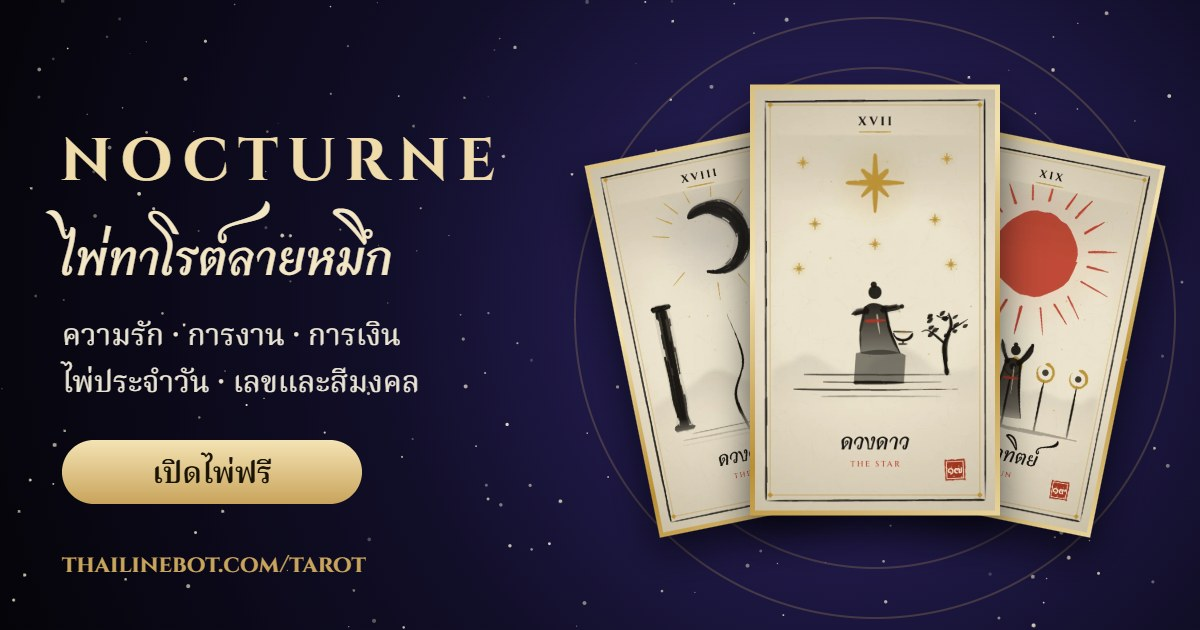
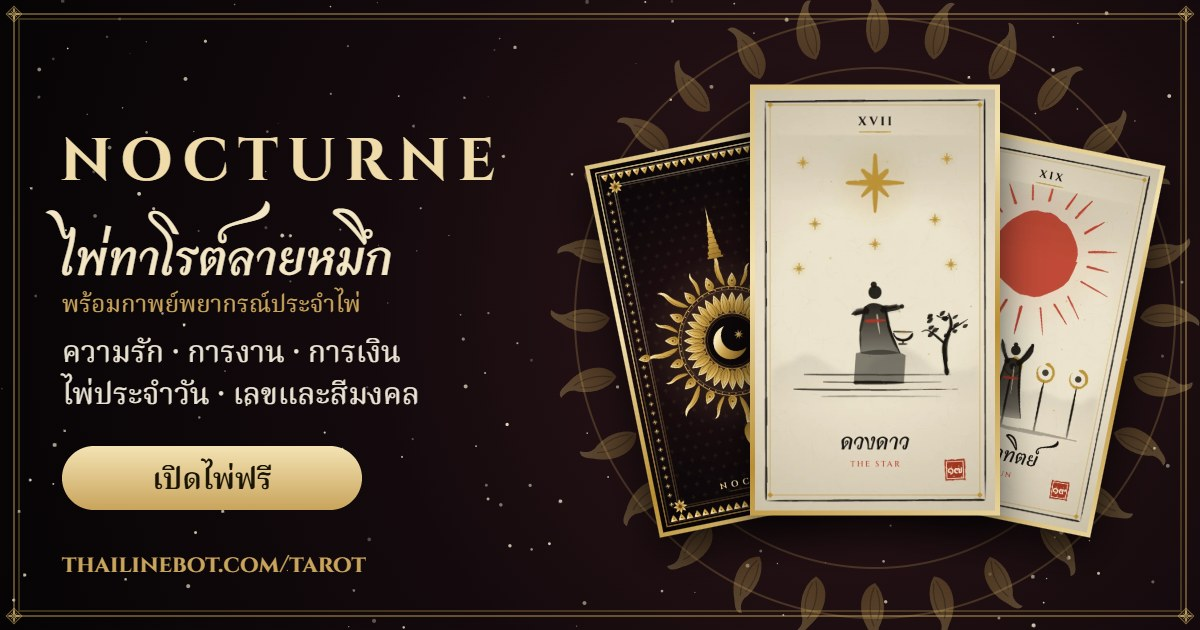
feat(tarot): Siamese theme - lacquer/gold background, Thai ring, new card back, kap yani 11 verse per card as the message, themed share + OG images

diff --git a/tarot/index.html b/tarot/index.html
@@ -1,7 +1,7 @@
 <meta charset="utf-8">
 <meta name="viewport" content="width=device-width, initial-scale=1, viewport-fit=cover">
 <title>Nocturne Tarot</title>
-<meta name="theme-color" content="#07060d">
+<meta name="theme-color" content="#070405">
 <meta name="apple-mobile-web-app-capable" content="yes">
 <meta name="mobile-web-app-capable" content="yes">
 <meta name="apple-mobile-web-app-title" content="Nocturne">
@@ -24,7 +24,7 @@
 <style>
 :root{
   color-scheme:dark;
-  --ink:#07060d; --indigo:#15122b; --indigo2:#1f1a3d;
+  --ink:#070405; --indigo:#1e1216; --indigo2:#2a1a1f;
   --gold:#c9a45c; --gold-hi:#efdcaa; --gold-lo:#7d6536;
   --mist:#a49dba; --text:#e9e3d3; --line:rgba(201,164,92,.28); --rev:#f0b3a8;
   --display:"Cinzel","Trajan Pro",Georgia,serif;
@@ -35,7 +35,7 @@
 [hidden]{display:none!important}
 html,body{height:100%}
 body{margin:0;background:var(--ink);color:var(--text);font-family:var(--body);font-size:15px;line-height:1.6;overflow-x:hidden}
-#sky{position:fixed;inset:0;width:100%;height:100%;z-index:0;pointer-events:none}
+#bgthai,#sky{position:fixed;inset:0;width:100%;height:100%;z-index:0;pointer-events:none}
 .app{position:relative;z-index:1;min-height:100%;display:grid;grid-template-rows:auto 1fr auto;padding-inline:16px;box-sizing:border-box}
 header{display:grid;grid-template-columns:1fr auto 1fr;align-items:center;padding-block:14px 4px;gap:12px}
 .brand{font-family:var(--display);letter-spacing:.32em;font-size:15px;color:var(--gold-hi)}
@@ -53,8 +53,8 @@ button:focus-visible,.card:focus-visible,textarea:focus-visible,.hitem:focus-vis
 
 .stage{position:relative;min-height:max(300px,52vh);overflow:hidden}
 .astro{position:absolute;left:50%;top:50%;width:min(96vmin,760px);aspect-ratio:1;transform:translate(-50%,-50%);pointer-events:none;opacity:.9}
-.astro .spin{transform-origin:50% 50%;animation:spin 240s linear infinite}
-.astro .spin2{transform-origin:50% 50%;animation:spin 400s linear infinite reverse}
+.astro{animation:rot 300s linear infinite}@keyframes rot{to{rotate:360deg}}
+.verse{margin:12px 0 4px;text-align:center}.vlab{font-size:12px;color:var(--gold);letter-spacing:.08em}.vl{font-family:var(--thai-d);font-size:19px;color:#f3e6c4;line-height:1.65;text-wrap:balance}.vrev{font-size:12px;color:var(--rev);margin-top:2px}
 @keyframes spin{to{transform:rotate(360deg)}}
 
 .card{position:absolute;left:0;top:0;transition:transform .8s var(--ease),width .8s var(--ease),height .8s var(--ease),opacity .5s;cursor:pointer;will-change:transform;-webkit-tap-highlight-color:transparent}
@@ -87,10 +87,10 @@ button:focus-visible,.card:focus-visible,textarea:focus-visible,.hitem:focus-vis
 .hint small{display:block;color:var(--mist);font-size:12px}
 .form{display:grid;gap:10px;width:min(600px,100%)}
 .row{display:flex;flex-wrap:wrap;gap:8px;justify-content:center}
-.chip{border:1px solid var(--line);background:rgba(21,18,43,.7);color:var(--text);border-radius:999px;padding:6px 14px;font:14px var(--body);cursor:pointer}
+.chip{border:1px solid var(--line);background:rgba(30,18,22,.72);color:var(--text);border-radius:999px;padding:6px 14px;font:14px var(--body);cursor:pointer}
 .chip[aria-pressed="true"]{border-color:var(--gold);color:#1a1405;background:linear-gradient(180deg,var(--gold-hi),var(--gold))}
 .lbl{font-size:11px;letter-spacing:.18em;color:var(--mist);font-family:var(--display);align-self:center}
-textarea{width:100%;box-sizing:border-box;resize:none;background:rgba(21,18,43,.75);border:1px solid var(--line);border-radius:10px;color:var(--text);font:15px var(--body);padding:10px 12px;height:48px}
+textarea{width:100%;box-sizing:border-box;resize:none;background:rgba(30,18,22,.75);border:1px solid var(--line);border-radius:10px;color:var(--text);font:15px var(--body);padding:10px 12px;height:48px}
 textarea::placeholder{color:#6f6888}
 .cta{font-family:var(--display);letter-spacing:.2em;font-size:14px;color:#1a1405;background:linear-gradient(180deg,#f4e3b4,#c9a45c);border:0;border-radius:999px;padding:12px 30px;cursor:pointer;box-shadow:0 0 24px rgba(201,164,92,.35)}
 .cta:hover{filter:brightness(1.08)}
@@ -99,7 +99,7 @@ textarea::placeholder{color:#6f6888}
 .note{font-size:11px;color:#6f6888}
 .daily{font-size:13px;color:var(--gold-hi)}
 
-.sheet{position:fixed;top:0;right:0;bottom:0;width:min(440px,100%);z-index:20;background:linear-gradient(180deg,rgba(21,18,43,.97),rgba(9,8,20,.98));border-left:1px solid var(--line);transform:translateX(105%);transition:transform .6s var(--ease);display:grid;grid-template-rows:auto 1fr auto;padding-top:env(safe-area-inset-top,0px);padding-bottom:env(safe-area-inset-bottom,0px)}
+.sheet{position:fixed;top:0;right:0;bottom:0;width:min(440px,100%);z-index:20;background:linear-gradient(180deg,rgba(34,20,24,.97),rgba(10,6,8,.98));border-left:1px solid var(--line);transform:translateX(105%);transition:transform .6s var(--ease);display:grid;grid-template-rows:auto 1fr auto;padding-top:env(safe-area-inset-top,0px);padding-bottom:env(safe-area-inset-bottom,0px)}
 .sheet.open{transform:none}
 .sheet-h{display:flex;justify-content:space-between;align-items:center;padding:16px 20px 8px;border-bottom:1px solid var(--line)}
 .sheet-h h2{margin:0;font-family:var(--display);font-weight:500;letter-spacing:.24em;font-size:15px;color:var(--gold-hi)}
@@ -168,6 +168,7 @@ textarea::placeholder{color:#6f6888}
 }
 </style>
 
+<canvas id="bgthai" aria-hidden="true"></canvas>
 <canvas id="sky" aria-hidden="true"></canvas>
 <div class="app">
   <header>
@@ -184,7 +185,7 @@ textarea::placeholder{color:#6f6888}
   </header>
 
   <main class="stage mode-intro" id="stage" aria-live="polite">
-    <svg class="astro" viewBox="0 0 400 400" aria-hidden="true" id="astro"></svg>
+    <canvas class="astro" id="astro" width="900" height="900" aria-hidden="true"></canvas>
   </main>
 
   <section class="dock" id="dock">
@@ -300,6 +301,7 @@ addEventListener("unhandledrejection",function(e){__showErr("promise: "+(e.reaso
 </script>
 <script src="cards.js" charset="utf-8"></script>
 <script src="ink/deck.js" charset="utf-8"></script>
+<script src="ink/thai.js" charset="utf-8"></script>
 <script>
 const ROMAN=["0","I","II","III","IV","V","VI","VII","VIII","IX","X","XI","XII","XIII","XIV","XV","XVI","XVII","XVIII","XIX","XX","XXI"];
 const TOPIC={all:"ภาพรวม",love:"ความรัก",work:"การงาน",money:"การเงิน"};
@@ -381,16 +383,27 @@ const LUNAR=(function(){const SYN=29.530588,age=(((Date.now()-Date.UTC(2000,0,6,
  $("#moons").innerHTML=h;const half=SYN/2;const d=age<half?Math.min(15,Math.floor(age)+1):Math.min(15,Math.floor(age-half)+1);
  const txt=`${age<half?"ข้างขึ้น":"ข้างแรม"} ${d} ค่ำ`;$("#lunar").innerHTML=`คืนนี้ราว <b>${txt}</b>`;return {txt,f}})();
 
-/* ---------- astrolabe ---------- */
-(function(){let t="";for(let i=0;i<120;i++){const a=i*3*Math.PI/180,r1=i%10?186:178;t+=`M${200+Math.cos(a)*r1} ${200+Math.sin(a)*r1}L${200+Math.cos(a)*192} ${200+Math.sin(a)*192}`}
- let p="";for(let i=0;i<12;i++){const a=(i*30+15)*Math.PI/180;p+=`<circle cx="${200+Math.cos(a)*160}" cy="${200+Math.sin(a)*160}" r="2" fill="#c9a45c"/>`}
- $("#astro").innerHTML=`<g fill="none" stroke="#c9a45c"><g class="spin" stroke-opacity=".32"><circle cx="200" cy="200" r="192"/><circle cx="200" cy="200" r="170" stroke-opacity=".6"/><path d="${t}" stroke-width=".8"/>${p}</g><g class="spin2" stroke-opacity=".22"><circle cx="200" cy="200" r="130"/><path d="${star(200,200,130,6,.577)}"/><circle cx="200" cy="200" r="74"/></g><path d="M200 0 V40 M200 360 V400 M0 200 H40 M360 200 H400" stroke-opacity=".3"/></g>`})();
+/* ---------- Thai ring behind the table: halo, กนกเปลว ring, ประจำยาม circle (slowly rotating via CSS) ---------- */
+(function(){const c=$("#astro"),g=c.getContext("2d"),T=ThaiArt,R=250;g.translate(450,450);
+ const gl=g.createRadialGradient(0,0,20,0,0,R*1.6);gl.addColorStop(0,"rgba(243,220,154,.12)");gl.addColorStop(1,"rgba(243,220,154,0)");g.fillStyle=gl;g.beginPath();g.arc(0,0,R*1.6,0,7);g.fill();
+ g.globalAlpha=.3;T.flameRing(g,0,0,R*1.12,32,R*.28);g.globalAlpha=1;
+ g.strokeStyle="rgba(215,178,94,.34)";g.lineWidth=1.4;[R,R*1.46,R*1.55].forEach(r=>{g.beginPath();g.arc(0,0,r,0,7);g.stroke()});
+ for(let i=0;i<20;i++){const a=i/20*Math.PI*2;T.prachayam(g,Math.cos(a)*R*1.505,Math.sin(a)*R*1.505,9,.6,false)}})();
 
-/* ---------- starfield ---------- */
+/* ---------- ลายรดน้ำ background (static, repainted on resize) + gold twinkle overlay ---------- */
+function paintBg(){const cv=$("#bgthai"),d=Math.min(devicePixelRatio||1,2),W=innerWidth,H=innerHeight;cv.width=W*d;cv.height=H*d;const g=cv.getContext("2d");g.scale(d,d);const T=ThaiArt,u=Math.min(W,H)/390;
+ T.lacquer(g,W,H,W/2,H*.4,3);
+ const r=T.mulberry(9);for(let i=0;i<W*H/6000;i++){g.globalAlpha=.1+r()*.4;g.fillStyle=r()<.3?"#f3dc9a":"#f4ead0";g.beginPath();g.arc(r()*W,r()*H*.8,r()*1.1+.3,0,7);g.fill()}g.globalAlpha=1;
+ const s=Math.min(W,H)*.2;T.scroll(g,s*.55,s*.55,s*.5,1.5,1,.3,.45,1);T.scroll(g,W-s*.55,s*.55,s*.5,1.5,-1,-.3,.45,2);
+ T.frame(g,W,H,8*u,6*u,.5);
+ const th=Math.min(H*.2,W*.5),hy=H-Math.max(10,H*.02);
+ const hg=g.createLinearGradient(0,hy-th*1.2,0,hy);hg.addColorStop(0,"rgba(90,60,40,0)");hg.addColorStop(1,"rgba(120,80,45,.3)");g.fillStyle=hg;g.fillRect(0,hy-th*1.2,W,th*1.2);
+ g.globalAlpha=.72;T.chedi(g,W*.16,hy,th*.8);T.chedi(g,W*.84,hy,th*.7);T.ubosot(g,W/2,hy,th*1.05);g.globalAlpha=1;
+ g.fillStyle="#050405";g.fillRect(0,hy,W,H-hy)}
 (function(){const cv=$("#sky"),x=cv.getContext("2d");let S=[],W,H;
- function size(){W=cv.width=innerWidth*devicePixelRatio;H=cv.height=innerHeight*devicePixelRatio;S=Array.from({length:170},()=>({x:Math.random()*W,y:Math.random()*H,r:(Math.random()*1.2+.2)*devicePixelRatio,p:Math.random()*6.28,s:.4+Math.random()*1.4}))}
- function draw(t){const g=x.createRadialGradient(W/2,H*.45,0,W/2,H*.45,Math.max(W,H)*.7);g.addColorStop(0,"#171333");g.addColorStop(.55,"#0b0918");g.addColorStop(1,"#050409");x.fillStyle=g;x.fillRect(0,0,W,H);
-  for(const s of S){x.globalAlpha=.35+.65*Math.abs(Math.sin(s.p+t/1000*s.s*.6));x.fillStyle="#f4ead0";x.beginPath();x.arc(s.x,s.y,s.r,0,6.3);x.fill()}x.globalAlpha=1;if(!reduce)requestAnimationFrame(draw)}
+ function size(){const d=Math.min(devicePixelRatio||1,2);W=innerWidth;H=innerHeight;cv.width=W*d;cv.height=H*d;x.setTransform(d,0,0,d,0,0);
+  S=Array.from({length:60},()=>({x:Math.random()*W,y:Math.random()*H*.75,r:Math.random()*1.3+.4,p:Math.random()*6.28,s:.4+Math.random()*1.2}));try{paintBg()}catch(e){}}
+ function draw(t){x.clearRect(0,0,W,H);for(const s of S){x.globalAlpha=Math.max(0,Math.sin(s.p+t/1000*s.s*.7))*.9;x.fillStyle="#f3dc9a";x.beginPath();x.arc(s.x,s.y,s.r,0,6.3);x.fill()}x.globalAlpha=1;if(!reduce)requestAnimationFrame(draw)}
  size();addEventListener("resize",size);requestAnimationFrame(draw)})();
 
 /* ---------- table ---------- */
@@ -403,7 +416,7 @@ for(let k=0;k<3;k++){const s=document.createElement("div");s.className="slot hid
 
 function place(el,x,y,w,r=0,z){const h=w/ASP;el.style.width=w+"px";el.style.height=h+"px";el.style.fontSize=(w*.1)+"px";el.style.transform=`translate(${x-w/2}px,${y-h/2}px) rotate(${r}deg)`;if(z!=null)el.style.zIndex=z}
 function geom(){const W=stage.clientWidth,H=stage.clientHeight;const cy=H*.93,R=Math.min(W*.46,H*.8),cw=Math.max(30,Math.min(R*.19,92));return{W,H,cy,R,cw}}
-function slotPos(k,G){const gap=G.cw*1.3;return{x:G.W/2+(k-(spread-1)/2)*gap,y:G.cy-G.R*.42,w:G.cw*1.05}}
+function slotPos(k,G){const gap=Math.max(G.cw*1.3,76);return{x:G.W/2+(k-(spread-1)/2)*gap,y:G.cy-G.R*.42,w:G.cw*1.05}}
 function revealPos(k,G){const sh=($("#sheet").classList.contains("open")||$("#hist").classList.contains("open"))&&G.W>720?Math.min(440,G.W*.45):0;const W=G.W-sh;
  const w=Math.min(W/(spread+.6)/1.12,G.H*.7*ASP,spread===1?240:210);const gap=w*1.14;return{x:W/2+(k-(spread-1)/2)*gap,y:G.H*.44,w}}
 function layout(){const G=geom(),N=cards.length;
@@ -474,15 +487,17 @@ function analyse(R){const cs=R.cards.map(([id,rv])=>({c:CARDS[id],rev:!!rv}));co
  return{cs,last,mid,msg,num,pair}}
 let readingText="";
 function dayColors(R){const out=[];if(R.bd!=null&&DAYC[R.bd])out.push([`สีวันเกิด (วัน${DAYC[R.bd][0]})`,DAYC[R.bd]]);const d=new Date(R.t).getDay();out.push([`สีประจำวัน${DAYC[d][0]}`,DAYC[d]]);return out}
+function poemHTML(R){const P=R.spread===3?POS3:POS1;return R.cards.map(([id,rv],k)=>{const c=CARDS[id],v=c.p||[];return `<div class="verse"><div class="vlab">${P[k][1]} · ${c.th}${rv?" (กลับหัว)":""}</div><div class="vl">${v[0]||""}&emsp;${v[1]||""}</div><div class="vl">${v[2]||""}&emsp;${v[3]||""}</div>${rv?`<div class="vrev">ไพ่กลับหัว: ${c.r}</div>`:""}</div>`}).join("")}
+function poemText(R){const P=R.spread===3?POS3:POS1;return R.cards.map(([id,rv],k)=>{const v=CARDS[id].p||[];return `${P[k][1]}: ${v[0]} ${v[1]}\n${v[2]} ${v[3]}`}).join("\n")}
 function renderReading(R){const A=analyse(R),P=R.spread===3?POS3:POS1;let h="",t=`🌙 NOCTURNE — ${TOPIC[R.topic]}\n`;
  h+=`<div class="meta">${thDate(R.t)} ${thTime(R.t)} · เรื่อง${TOPIC[R.topic]}${R.moon?" · "+R.moon:""}</div>`;
  if(R.q){h+=`<p class="q">“${esc(R.q)}”</p>`;t+=`คำถาม: ${R.q}\n`}
  A.cs.forEach(({c,rev},k)=>{const id=R.cards[k][0];h+=`<div class="entry">${thumb(id,rev)}<div><div class="pos">${P[k][0]} · ${P[k][1]}</div><h3>${c.th}<small>${numLabel(c)} ${c.en}${rev?" · REVERSED":""}</small></h3><div class="kw">${rev?"กลับหัว":c.k}</div>`+
   (rev?`<p class="rv">${c.r}</p><p>ถ้าปรับพลังให้ตั้งตรงได้: ${topicLine(c,R.topic)}</p>`:`<p>${topicLine(c,R.topic)}</p>`)+`</div></div>`;
   t+=`\n${P[k][1]}: ${c.th} (${c.en})${rev?" กลับหัว":""}\n${rev?c.r:topicLine(c,R.topic)}\n`});
- h+=`<div class="msg"><h4>สารจากไพ่</h4><p>${A.msg}</p><p><b>คำแนะนำ:</b> ${A.last.a}</p><div class="lucky"><div><b>${A.num}</b>เลขมงคล</div><div><b>${A.pair}</b>เลขคู่นำโชค</div><div><b><span class="sw" style="background:${A.mid.c[1]}"></span>${A.mid.c[0]}</b>สีมงคลจากไพ่</div>${dayColors(R).map(([lab,c])=>`<div><b><span class="sw" style="background:${c[2]}"></span>${c[1]}</b>${lab}</div>`).join("")}</div><p class="note" style="margin-top:8px">สีประจำวันตามคติไทยทั่วไป${R.bd==null?" · เลือกวันเกิดในหน้าแรกเพื่อดูสีวันเกิดของคุณ":""}</p></div>`;
+ h+=`<div class="msg"><h4>สารจากไพ่</h4>${poemHTML(R)}<p><b>คำแนะนำ:</b> ${A.last.a}</p><div class="lucky"><div><b>${A.num}</b>เลขมงคล</div><div><b>${A.pair}</b>เลขคู่นำโชค</div><div><b><span class="sw" style="background:${A.mid.c[1]}"></span>${A.mid.c[0]}</b>สีมงคลจากไพ่</div>${dayColors(R).map(([lab,c])=>`<div><b><span class="sw" style="background:${c[2]}"></span>${c[1]}</b>${lab}</div>`).join("")}</div><p class="note" style="margin-top:8px">สีประจำวันตามคติไทยทั่วไป${R.bd==null?" · เลือกวันเกิดในหน้าแรกเพื่อดูสีวันเกิดของคุณ":""}</p></div>`;
  h+=`<div class="credit">${CREDIT()}</div>`;
- t+=`\nสารจากไพ่: ${A.msg}\nคำแนะนำ: ${A.last.a}\nเลขมงคล ${A.num} · เลขคู่ ${A.pair} · สีมงคล ${A.mid.c[0]}${dayColors(R).map(([l,c])=>" · "+l+" "+c[1]).join("")}\nดูไพ่ชุดนี้: ${linkFor(R)}\n(เพื่อความบันเทิง)`;
+ t+=`\nสารจากไพ่:\n${poemText(R)}\nคำแนะนำ: ${A.last.a}\nเลขมงคล ${A.num} · เลขคู่ ${A.pair} · สีมงคล ${A.mid.c[0]}${dayColors(R).map(([l,c])=>" · "+l+" "+c[1]).join("")}\nดูไพ่ชุดนี้: ${linkFor(R)}\n(เพื่อความบันเทิง)`;
  readingText=t;current=R;$("#reading").innerHTML=h;$("#fab").hidden=false}
 function openSheet(id){["#sheet","#hist"].forEach(s=>$(s).classList.toggle("open",s===id));$("#fab").hidden=true;layout()}
 function closeSheets(){$("#sheet").classList.remove("open");$("#hist").classList.remove("open");if(readingText)$("#fab").hidden=false;layout()}
@@ -516,15 +531,17 @@ function wrap(ctx,s,maxW,maxLines){const out=[];let line="";for(const w of words
  if(out.length>maxLines){out.length=maxLines;out[maxLines-1]=out[maxLines-1].replace(/.{0,2}$/,"…")}return out}
 function rrect(ctx,x,y,w,h,r){ctx.beginPath();ctx.moveTo(x+r,y);ctx.arcTo(x+w,y,x+w,y+h,r);ctx.arcTo(x+w,y+h,x,y+h,r);ctx.arcTo(x,y+h,x,y,r);ctx.arcTo(x,y,x+w,y,r);ctx.closePath()}
 const FMT={story:[1080,1920],post:[1080,1350],wide:[1200,675]};let shareFmt="story";
-function sky(x,W,H,cx,cy,R0,seed0){const g=x.createRadialGradient(cx,cy,40,cx,cy,Math.max(W,H)*.75);g.addColorStop(0,"#2a2160");g.addColorStop(.45,"#110e28");g.addColorStop(1,"#050409");x.fillStyle=g;x.fillRect(0,0,W,H);
+function sky(x,W,H,cx,cy,R0,seed0){const g=x.createRadialGradient(cx,cy,40,cx,cy,Math.max(W,H)*.75);g.addColorStop(0,"#2c1519");g.addColorStop(.45,"#140a0d");g.addColorStop(1,"#060405");x.fillStyle=g;x.fillRect(0,0,W,H);
  let seed=seed0%9973+1;const rr=()=>(seed=(seed*16807)%2147483647)/2147483647;for(let i=0;i<W*H/8000;i++){x.globalAlpha=.25+rr()*.75;x.fillStyle="#f4ead0";x.beginPath();x.arc(rr()*W,rr()*H,rr()*1.8+.3,0,7);x.fill()}x.globalAlpha=1;
  x.strokeStyle="rgba(201,164,92,.22)";x.lineWidth=2;[R0,R0+50].forEach(r=>{x.beginPath();x.arc(cx,cy,r,0,7);x.stroke()});
- for(let i=0;i<120;i++){const a=i*3*Math.PI/180,r1=i%10?R0+35:R0+20;x.beginPath();x.moveTo(cx+Math.cos(a)*r1,cy+Math.sin(a)*r1);x.lineTo(cx+Math.cos(a)*(R0+50),cy+Math.sin(a)*(R0+50));x.stroke()}}
+ for(let i=0;i<120;i++){const a=i*3*Math.PI/180,r1=i%10?R0+35:R0+20;x.beginPath();x.moveTo(cx+Math.cos(a)*r1,cy+Math.sin(a)*r1);x.lineTo(cx+Math.cos(a)*(R0+50),cy+Math.sin(a)*(R0+50));x.stroke()}
+ if(window.ThaiArt){const m=Math.min(W,H)*.025;ThaiArt.frame(x,W,H,m,Math.min(W,H)*.012,.75)}}
 function cardAt(x,im,cx,top,cw,rev){const ch=cw/ASP,lx=cx-cw/2;x.save();x.shadowColor="rgba(0,0,0,.6)";x.shadowBlur=cw*.13;x.shadowOffsetY=cw*.045;const fg=x.createLinearGradient(lx,top,lx+cw,top+ch);
  (STYLE==="ink"?["#d9bf7e","#f3e2b0","#b98f34","#e8d39a","#c9a45c"]:["#e8d39a","#9fd6d2","#e9b7d8","#c9a45c","#f3e2b0"]).forEach((c,i)=>fg.addColorStop(i/4,c));x.fillStyle=fg;rrect(x,lx,top,cw,ch,cw*.045);x.fill();x.restore();
  const p=cw*(STYLE==="ink"?.02:.045);x.save();rrect(x,lx+p,top+p,cw-2*p,ch-2*p,cw*.025);x.clip();x.fillStyle="#e9dcc0";x.fillRect(lx,top,cw,ch);
  if(im){const cr=STYLE==="ink"?0:.035,sx=im.width*cr,sy=im.height*cr,sw=im.width-2*sx,sh=im.height-2*sy;x.translate(cx,top+ch/2);if(rev)x.rotate(Math.PI);const iw=cw-2*p,ih=ch-2*p,s=Math.max(iw/sw,ih/sh);x.drawImage(im,sx,sy,sw,sh,-sw*s/2,-sh*s/2,sw*s,sh*s)}x.restore();return ch}
 function T(x,str,X,Y,font,col,align="center",ls=0){x.font=font;x.fillStyle=col;x.textAlign=align;if("letterSpacing" in x)x.letterSpacing=ls+"px";x.fillText(str,X+(align==="center"?ls/2:0),Y);if("letterSpacing" in x)x.letterSpacing="0px"}
+function verseLines(R){const P=R.spread===3?POS3:POS1,out=[];R.cards.forEach(([id,rv],k)=>{const v=CARDS[id].p||["","","",""];out.push({lab:1,t:`${P[k][1]}${rv?" · กลับหัว":""}`});out.push({t:`${v[0]}  ${v[1]}`});out.push({t:`${v[2]}  ${v[3]}`})});return out}
 function luckyStr(R,A){return `เลขมงคล ${A.num} · เลขคู่ ${A.pair} · สี${A.mid.c[0]}`+dayColors(R).map(([l,c])=>` · ${l.replace("สีประจำวัน","สีวัน")} ${c[1]}`).join("")}
 const FOOT=()=>"เพื่อความบันเทิง · ไพ่ลายหมึกพู่กัน Nocturne";
 async function makeShare(R,fmt="story"){
@@ -535,24 +552,24 @@ async function makeShare(R,fmt="story"){
  if(fmt==="story"){sky(x,W,H,W/2,860,470,R.t);
   T(x,"NOCTURNE",W/2,150,`700 68px ${CZ}`,"#efdcaa","center",22);T(x,sub,W/2,205,`400 30px ${TH}`,"#a49dba");
   let y=270;if(R.q){x.font=`400 34px ${TH}`;wrap(x,`“${R.q}”`,860,2).forEach(l=>{T(x,l,W/2,y,`400 34px ${TH}`,"#e9e3d3");y+=48})}
-  const cw=n===3?318:430,gap=28,top=n===3?Math.max(y+50,420):Math.max(y+40,360);let ch=0;
+  const cw=n===3?280:430,gap=28,top=n===3?Math.max(y+50,420):Math.max(y+40,360);let ch=0;
   for(let k=0;k<n;k++){const cx=W/2+(k-(n-1)/2)*(cw+gap),rev=!!R.cards[k][1],c=CARDS[R.cards[k][0]];ch=cardAt(x,imgs[k],cx,top,cw,rev);
    let ty=top+ch+52;T(x,P[k][0],cx,ty,`500 24px ${CZ}`,"#c9a45c","center",6);T(x,P[k][1],cx,ty+=34,`400 24px ${TH}`,"#a49dba");
    x.font=`700 ${n===3?38:48}px ${SK}`;wrap(x,c.th+(rev?" (กลับหัว)":""),cw+20,2).forEach(l=>T(x,l,cx,ty+=(n===3?48:60),`700 ${n===3?38:48}px ${SK}`,rev?"#f0b3a8":"#f3e6c4"))}
-  const my=top+ch+(n===3?250:230),bx=90,bw=W-180;x.font=`400 32px ${TH}`;const ml=wrap(x,A.msg,bw-80,5);x.font=`600 30px ${TH}`;const al=wrap(x,"คำแนะนำ: "+A.last.a,bw-80,2);x.font=`400 26px ${TH}`;const ll=wrap(x,luckyStr(R,A),bw-60,2);
-  const bh=90+ml.length*48+al.length*46+ll.length*38+50;x.fillStyle="rgba(7,6,13,.55)";rrect(x,bx,my,bw,bh,22);x.fill();x.strokeStyle="rgba(201,164,92,.5)";x.lineWidth=2;x.stroke();
-  T(x,"MESSAGE",W/2,my+52,`500 24px ${CZ}`,"#c9a45c","center",6);let ly=my+100;ml.forEach(l=>{T(x,l,W/2,ly,`400 32px ${TH}`,"#e9e3d3");ly+=48});al.forEach(l=>{T(x,l,W/2,ly+6,`600 30px ${TH}`,"#efdcaa");ly+=46});
+  const my=top+ch+(n===3?220:210),bx=90,bw=W-180;const ml=verseLines(R);x.font=`600 30px ${TH}`;const al=wrap(x,"คำแนะนำ: "+A.last.a,bw-80,2);x.font=`400 26px ${TH}`;const ll=wrap(x,luckyStr(R,A),bw-60,2);
+  const bh=70+ml.reduce((a,l)=>a+(l.lab?30:42),0)+al.length*44+ll.length*36+50;x.fillStyle="rgba(7,6,13,.55)";rrect(x,bx,my,bw,bh,22);x.fill();x.strokeStyle="rgba(201,164,92,.5)";x.lineWidth=2;x.stroke();
+  T(x,"MESSAGE",W/2,my+52,`500 24px ${CZ}`,"#c9a45c","center",6);let ly=my+96;ml.forEach(l=>{if(l.lab)T(x,l.t,W/2,ly,`400 22px ${TH}`,"#c9a45c");else T(x,l.t,W/2,ly,`700 30px ${SK}`,"#f3e6c4");ly+=l.lab?30:42});ly+=6;al.forEach(l=>{T(x,l,W/2,ly+6,`600 30px ${TH}`,"#efdcaa");ly+=46});
   ly+=20;ll.forEach(l=>{T(x,l,W/2,ly,`400 26px ${TH}`,"#e9e3d3");ly+=38});
   T(x,"thailinebot.com/tarot",W/2,H-110,`500 30px ${CZ}`,"#c9a45c");T(x,FOOT(),W/2,H-66,`400 22px ${TH}`,"#6f6888")}
  else if(fmt==="post"){sky(x,W,H,W/2,560,380,R.t);
   T(x,"NOCTURNE",W/2,100,`700 56px ${CZ}`,"#efdcaa","center",18);T(x,sub,W/2,148,`400 26px ${TH}`,"#a49dba");
   let y=200;if(R.q){x.font=`400 30px ${TH}`;T(x,wrap(x,`“${R.q}”`,900,1)[0],W/2,y,`400 30px ${TH}`,"#e9e3d3");y+=24}
-  const cw=n===3?292:360,gap=26,top=y+(R.q?20:10);let ch=0;
+  const cw=n===3?256:320,gap=26,top=y+(R.q?20:10);let ch=0;
   for(let k=0;k<n;k++){const cx=W/2+(k-(n-1)/2)*(cw+gap),rev=!!R.cards[k][1],c=CARDS[R.cards[k][0]];ch=cardAt(x,imgs[k],cx,top,cw,rev);
    T(x,P[k][1],cx,top+ch+42,`400 22px ${TH}`,"#c9a45c");x.font=`700 ${n===3?34:44}px ${SK}`;T(x,wrap(x,c.th+(rev?" (กลับหัว)":""),cw+24,1)[0],cx,top+ch+(n===3?86:96),`700 ${n===3?34:44}px ${SK}`,rev?"#f0b3a8":"#f3e6c4")}
-  const my=top+ch+(n===3?112:124),bx=70,bw=W-140;x.font=`400 28px ${TH}`;const ml=wrap(x,A.msg,bw-70,3);x.font=`600 26px ${TH}`;const al=wrap(x,"คำแนะนำ: "+A.last.a,bw-70,1);x.font=`400 22px ${TH}`;const ll=wrap(x,luckyStr(R,A),bw-60,1);
-  const bh=34+ml.length*40+al.length*38+ll.length*34+26;x.fillStyle="rgba(7,6,13,.55)";rrect(x,bx,my,bw,bh,20);x.fill();x.strokeStyle="rgba(201,164,92,.5)";x.lineWidth=2;x.stroke();
-  let ly=my+48;ml.forEach(l=>{T(x,l,W/2,ly,`400 28px ${TH}`,"#e9e3d3");ly+=40});al.forEach(l=>{T(x,l,W/2,ly,`600 26px ${TH}`,"#efdcaa");ly+=38});ll.forEach(l=>{T(x,l,W/2,ly,`400 22px ${TH}`,"#a49dba");ly+=34});
+  const my=top+ch+(n===3?112:124),bx=70,bw=W-140;const ml=verseLines(R);x.font=`600 26px ${TH}`;const al=wrap(x,"คำแนะนำ: "+A.last.a,bw-70,1);x.font=`400 22px ${TH}`;const ll=wrap(x,luckyStr(R,A),bw-60,1);
+  const bh=40+ml.reduce((a,l)=>a+(l.lab?28:36),0)+al.length*38+ll.length*34+20;x.fillStyle="rgba(7,6,13,.55)";rrect(x,bx,my,bw,bh,20);x.fill();x.strokeStyle="rgba(201,164,92,.5)";x.lineWidth=2;x.stroke();
+  let ly=my+44;ml.forEach(l=>{if(l.lab)T(x,l.t,W/2,ly,`400 18px ${TH}`,"#c9a45c");else T(x,l.t,W/2,ly,`700 26px ${SK}`,"#f3e6c4");ly+=l.lab?28:36});ly+=4;al.forEach(l=>{T(x,l,W/2,ly,`600 26px ${TH}`,"#efdcaa");ly+=38});ll.forEach(l=>{T(x,l,W/2,ly,`400 22px ${TH}`,"#a49dba");ly+=34});
   T(x,"thailinebot.com/tarot",W/2,H-52,`500 26px ${CZ}`,"#c9a45c");T(x,FOOT(),W/2,H-20,`400 17px ${TH}`,"#6f6888")}
  else{sky(x,W,H,330,340,250,R.t);
   const cw=n===3?176:236,gap=16,top=n===3?100:70;let ch=0;
@@ -561,7 +578,7 @@ async function makeShare(R,fmt="story"){
   const X0=660,CW=490;T(x,"NOCTURNE",X0,92,`700 44px ${CZ}`,"#efdcaa","left",12);T(x,sub,X0,130,`400 19px ${TH}`,"#a49dba","left");
   let y=172;if(R.q){x.font=`400 22px ${TH}`;wrap(x,`“${R.q}”`,CW,2).forEach(l=>{T(x,l,X0,y,`400 22px ${TH}`,"#e9e3d3","left");y+=30});y+=6}
   x.strokeStyle="rgba(201,164,92,.5)";x.lineWidth=1.5;x.beginPath();x.moveTo(X0,y);x.lineTo(X0+CW,y);x.stroke();y+=38;
-  x.font=`400 23px ${TH}`;wrap(x,A.msg,CW,5).forEach(l=>{T(x,l,X0,y,`400 23px ${TH}`,"#e9e3d3","left");y+=33});y+=6;
+  verseLines(R).forEach(l=>{if(l.lab)T(x,l.t,X0,y,`400 15px ${TH}`,"#c9a45c","left");else T(x,l.t,X0,y,`700 21px ${SK}`,"#f3e6c4","left");y+=l.lab?22:28});y+=8;
   x.font=`600 21px ${TH}`;wrap(x,"คำแนะนำ: "+A.last.a,CW,2).forEach(l=>{T(x,l,X0,y,`600 21px ${TH}`,"#efdcaa","left");y+=30});y+=6;
   x.font=`400 18px ${TH}`;wrap(x,luckyStr(R,A),CW,2).forEach(l=>{T(x,l,X0,y,`400 18px ${TH}`,"#a49dba","left");y+=26});
   T(x,"thailinebot.com/tarot",X0,H-44,`500 22px ${CZ}`,"#c9a45c","left");T(x,FOOT(),X0,H-18,`400 14px ${TH}`,"#6f6888","left")}

diff --git a/tarot/ink/thai.js b/tarot/ink/thai.js
@@ -1,0 +1,86 @@
+/* Nocturne Thai motifs — ลายรดน้ำ (gold leaf on black lacquer), drawn in code.
+   กนกเปลว (flame), ก้านขด (scroll), ประจำยาม (4-petal flower), โบสถ์ + เจดีย์ silhouettes.
+   Pure canvas functions: ThaiArt.<fn>(ctx, ...). No sacred yantra script is used anywhere. */
+(function(){
+const GOLD=['#f3dc9a','#d7b25e','#a8823a'];
+function goldFill(g,x,y,r){const gr=g.createLinearGradient(x-r,y-r,x+r,y+r);gr.addColorStop(0,GOLD[0]);gr.addColorStop(.5,GOLD[1]);gr.addColorStop(1,GOLD[2]);return gr}
+function mulberry(a){return function(){a|=0;a=a+0x6D2B79F5|0;let t=Math.imul(a^a>>>15,1|a);t=t+Math.imul(t^t>>>7,61|t)^t;return((t^t>>>14)>>>0)/4294967296}}
+
+/* กนกเปลว: flame leaf with a hooked tip; base at (0,0) pointing up (-y), length L, width w. dir=±1 mirrors the hook */
+function flame(g,x,y,L,w,ang=0,dir=1,alpha=1,lacquer='#0b0809'){
+ g.save();g.translate(x,y);g.rotate(ang);g.scale(dir,1);g.globalAlpha*=alpha;
+ g.beginPath();g.moveTo(0,0);
+ g.bezierCurveTo(w*.95,-L*.12,w*.9,-L*.55,w*.25,-L*.82);
+ g.bezierCurveTo(w*.05,-L*.93,-w*.1,-L*1.02,-w*.42,-L*.98);   // tip hooks back
+ g.bezierCurveTo(-w*.22,-L*.9,-w*.12,-L*.84,-w*.2,-L*.74);
+ g.bezierCurveTo(-w*.55,-L*.55,-w*.62,-L*.2,0,0);g.closePath();
+ g.fillStyle=goldFill(g,0,-L/2,L/2);g.fill();
+ /* lacquer lines scratched into the gold = the ลายรดน้ำ look */
+ g.strokeStyle=lacquer;g.lineWidth=Math.max(.8,w*.07);g.lineCap='round';
+ g.beginPath();g.moveTo(w*.05,-L*.08);g.bezierCurveTo(w*.35,-L*.3,w*.3,-L*.55,w*.05,-L*.72);g.stroke();
+ g.beginPath();g.moveTo(-w*.1,-L*.12);g.bezierCurveTo(-w*.3,-L*.3,-w*.28,-L*.5,-w*.12,-L*.62);g.stroke();
+ g.restore()}
+/* กนกสามตัว: one tall flame flanked by two small ones leaning out */
+function kanok3(g,x,y,L,ang=0,alpha=1){flame(g,x,y,L*.62,L*.24,ang-.55,-1,alpha);flame(g,x,y,L*.62,L*.24,ang+.55,1,alpha);flame(g,x,y,L,L*.34,ang,1,alpha)}
+/* ก้านขด: a spiral stem with flames sprouting outward */
+function scroll(g,x,y,R,turns=1.6,dir=1,ang=0,alpha=1,seed=1){const r=mulberry(seed);g.save();g.translate(x,y);g.rotate(ang);g.scale(dir,1);g.globalAlpha*=alpha;
+ const pts=[];const N=90;for(let i=0;i<=N;i++){const t=i/N,a=t*turns*Math.PI*2,rr=R*(1-t*.82);pts.push([Math.cos(a)*rr,Math.sin(a)*rr,a,rr])}
+ g.strokeStyle=GOLD[1];g.lineWidth=Math.max(1.2,R*.045);g.lineCap='round';g.beginPath();pts.forEach(([px,py],i)=>i?g.lineTo(px,py):g.moveTo(px,py));g.stroke();
+ for(let i=6;i<N-4;i+=9){const [px,py,a,rr]=pts[i];const L=rr*.42+R*.05;flame(g,px,py,L,L*.34,a+Math.PI*.5+ (r()-.5)*.2,1,1)}
+ /* the spiral ends in a curl bud */
+ const [ex,ey]=pts[N];g.fillStyle=GOLD[0];g.beginPath();g.arc(ex,ey,R*.06,0,7);g.fill();g.restore()}
+/* ประจำยาม: 4 pointed petals + 4 small diagonals + centre, in a diamond */
+function prachayam(g,x,y,s,alpha=1,frame=true){g.save();g.translate(x,y);g.globalAlpha*=alpha;const fg=goldFill(g,0,0,s);
+ for(let k=0;k<4;k++){g.save();g.rotate(k*Math.PI/2);g.beginPath();g.moveTo(0,-s*.18);g.bezierCurveTo(s*.3,-s*.35,s*.18,-s*.75,0,-s*.92);g.bezierCurveTo(-s*.18,-s*.75,-s*.3,-s*.35,0,-s*.18);g.fillStyle=fg;g.fill();
+  g.rotate(Math.PI/4);g.beginPath();g.moveTo(0,-s*.2);g.quadraticCurveTo(s*.14,-s*.4,0,-s*.55);g.quadraticCurveTo(-s*.14,-s*.4,0,-s*.2);g.fill();g.restore()}
+ g.beginPath();g.arc(0,0,s*.2,0,7);g.fillStyle=GOLD[0];g.fill();g.beginPath();g.arc(0,0,s*.1,0,7);g.fillStyle='#0b0809';g.fill();
+ if(frame){g.strokeStyle=GOLD[1];g.lineWidth=Math.max(.8,s*.05);g.beginPath();g.moveTo(0,-s*1.1);g.lineTo(s*1.1,0);g.lineTo(0,s*1.1);g.lineTo(-s*1.1,0);g.closePath();g.stroke()}
+ g.restore()}
+/* a ring of flames radiating from a circle (halo / ลายรัศมี) */
+function flameRing(g,x,y,R,n,L,alpha=1){for(let i=0;i<n;i++){const a=i/n*Math.PI*2;flame(g,x+Math.cos(a)*R,y+Math.sin(a)*R,L,L*.32,a+Math.PI/2,i%2?1:-1,alpha)}}
+/* โบสถ์ silhouette (front view): bottom centre (x,y), width W. Steep concave หน้าบัน, stepped ปีกนก skirts with
+   upturned หางหงส์ eaves, a tall ช่อฟ้า at the apex and ใบระกา teeth down the gable. */
+function ubosot(g,x,y,W,fill='#050405',line='rgba(215,178,94,.6)'){g.save();g.translate(x,y);g.lineJoin='round';
+ const plat=W*.05,wall=W*.17,wt=-(plat+wall),H=W*.9;
+ const shape=f=>{g.beginPath();f();g.closePath();g.fillStyle=fill;g.fill();g.strokeStyle=line;g.lineWidth=Math.max(1,W*.004);g.stroke()};
+ /* platform + walls */
+ shape(()=>{g.moveTo(-W*.5,0);g.lineTo(W*.5,0);g.lineTo(W*.46,-plat);g.lineTo(-W*.46,-plat)});
+ shape(()=>{g.moveTo(-W*.3,-plat);g.lineTo(W*.3,-plat);g.lineTo(W*.3,wt);g.lineTo(-W*.3,wt)});
+ g.strokeStyle=line;g.lineWidth=Math.max(1,W*.003);[-.22,-.11,.11,.22].forEach(k=>{g.beginPath();g.moveTo(W*k,-plat);g.lineTo(W*k,wt);g.stroke()});
+ /* two tiers of skirts each side, lowest widest; eave tips flick up */
+ [[.5,.02,.2],[.42,.13,.16]].forEach(([half,lift,rise])=>{const yb=wt-H*lift,yt=yb-H*rise;
+  for(const d of [-1,1])shape(()=>{g.moveTo(d*W*.16,yt);g.quadraticCurveTo(d*W*(half*.62),yt+H*rise*.55,d*W*half,yb);
+   g.quadraticCurveTo(d*W*(half+.035),yb-H*.025,d*W*(half+.05),yb-H*.07);g.quadraticCurveTo(d*W*(half+.01),yb-H*.01,d*W*(half-.03),yb+H*.012);g.lineTo(d*W*.16,yb+H*.012)})});
+ /* main gable: concave sides meeting at a high apex */
+ const gb=wt-H*.12,ap=gb-H*.62,gw=W*.24;
+ shape(()=>{g.moveTo(-gw,gb);g.quadraticCurveTo(-W*.05,gb-H*.16,0,ap);g.quadraticCurveTo(W*.05,gb-H*.16,gw,gb)});
+ /* gold หน้าบัน outline inside the gable */
+ g.strokeStyle=line;g.beginPath();g.moveTo(-gw*.72,gb-H*.02);g.quadraticCurveTo(-W*.035,gb-H*.15,0,ap+H*.1);g.quadraticCurveTo(W*.035,gb-H*.15,gw*.72,gb-H*.02);g.closePath();g.stroke();
+ /* ใบระกา teeth along both gable edges */
+ for(const d of [-1,1])for(let i=1;i<9;i++){const t=i/9;const px=d*(gw*(1-t)*(1-t)+W*.05*2*t*(1-t)*0),py=gb+(ap-gb)*t;const qx=d*(gw*Math.pow(1-t,1.6));
+  shape(()=>{g.moveTo(qx,py);g.lineTo(qx+d*W*.028,py-H*.012);g.lineTo(qx+d*W*.006,py+H*.022)})}
+ /* ช่อฟ้า: slender hook rising from the apex; หางหงส์ at the gable feet */
+ shape(()=>{g.moveTo(-W*.008,ap+H*.03);g.quadraticCurveTo(-W*.01,ap-H*.08,W*.03,ap-H*.13);g.quadraticCurveTo(W*.045,ap-H*.1,W*.03,ap-H*.085);g.quadraticCurveTo(W*.008,ap-H*.06,W*.01,ap+H*.03)});
+ for(const d of [-1,1])shape(()=>{g.moveTo(d*gw,gb);g.quadraticCurveTo(d*(gw+W*.03),gb-H*.02,d*(gw+W*.035),gb-H*.08);g.quadraticCurveTo(d*(gw+W*.01),gb-H*.03,d*(gw-W*.02),gb+H*.01)});
+ /* door + windows glow */
+ g.fillStyle='rgba(243,200,120,.22)';g.fillRect(-W*.04,-plat-wall*.82,W*.08,wall*.82);[-.165,.165].forEach(k=>g.fillRect(W*k-W*.022,-plat-wall*.7,W*.044,wall*.38));
+ g.restore()}
+/* เจดีย์ทรงระฆัง */
+function chedi(g,x,y,H,fill='#050405',line='rgba(215,178,94,.55)'){const W=H*.42;g.save();g.translate(x,y);g.beginPath();
+ g.moveTo(-W*.5,0);g.lineTo(W*.5,0);g.lineTo(W*.42,-H*.06);g.lineTo(W*.34,-H*.1);g.lineTo(W*.36,-H*.16);
+ g.bezierCurveTo(W*.36,-H*.34,W*.2,-H*.44,W*.1,-H*.46);g.lineTo(W*.12,-H*.5);g.lineTo(W*.06,-H*.52);
+ for(let i=0;i<6;i++){g.lineTo(W*(.055-i*.006),-H*(.56+i*.05));g.lineTo(W*(.045-i*.006),-H*(.58+i*.05))}
+ g.lineTo(0,-H);
+ for(let i=5;i>=0;i--){g.lineTo(-W*(.045-i*.006),-H*(.58+i*.05));g.lineTo(-W*(.055-i*.006),-H*(.56+i*.05))}
+ g.lineTo(-W*.06,-H*.52);g.lineTo(-W*.12,-H*.5);g.lineTo(-W*.1,-H*.46);g.bezierCurveTo(-W*.2,-H*.44,-W*.36,-H*.34,-W*.36,-H*.16);
+ g.lineTo(-W*.34,-H*.1);g.lineTo(-W*.42,-H*.06);g.closePath();g.fillStyle=fill;g.fill();g.strokeStyle=line;g.lineWidth=1.2;g.stroke();g.restore()}
+/* lacquer ground: warm black with faint grain */
+function lacquer(g,W,H,cx,cy,seed=3){const gr=g.createRadialGradient(cx,cy,0,cx,cy,Math.hypot(W,H)*.7);gr.addColorStop(0,'#241826');gr.addColorStop(.45,'#120c12');gr.addColorStop(1,'#060405');g.fillStyle=gr;g.fillRect(0,0,W,H);
+ const r=mulberry(seed);g.save();g.globalAlpha=.05;g.strokeStyle='#caa46a';g.lineWidth=.6;for(let i=0;i<W*H/9000;i++){const x=r()*W,y=r()*H;g.beginPath();g.moveTo(x,y);g.lineTo(x+(r()-.5)*30,y+(r()-.5)*4);g.stroke()}g.restore()}
+/* thin double gold frame with ประจำยาม in the corners */
+function frame(g,W,H,m,s=10,alpha=.8){g.save();g.globalAlpha*=alpha;g.strokeStyle=GOLD[1];g.lineWidth=1.2;g.strokeRect(m,m,W-2*m,H-2*m);g.globalAlpha*=.6;g.strokeRect(m+5,m+5,W-2*m-10,H-2*m-10);g.restore();
+ [[m,m],[W-m,m],[m,H-m],[W-m,H-m]].forEach(([x,y])=>prachayam(g,x,y,s,alpha))}
+/* chain of ประจำยาม along a line */
+function chain(g,x0,y0,x1,y1,s,gap,alpha=1){const L=Math.hypot(x1-x0,y1-y0),n=Math.max(1,Math.floor(L/gap));for(let i=0;i<=n;i++){const t=i/n;prachayam(g,x0+(x1-x0)*t,y0+(y1-y0)*t,s,alpha,false)}}
+window.ThaiArt={GOLD,goldFill,flame,kanok3,scroll,prachayam,flameRing,ubosot,chedi,lacquer,frame,chain,mulberry};
+})();

diff --git a/tarot/sw.js b/tarot/sw.js
@@ -1,8 +1,8 @@
 /* Nocturne service worker — เปิดได้แม้ไม่มีเน็ต
    ตัวแอป: เน็ตก่อน (ได้เวอร์ชันใหม่ทันที) · ภาพไพ่/ไอคอน/ฟอนต์: แคชก่อน
    ภาพไพ่ 78 ใบ (~4.8 MB) ทยอยโหลดเก็บหลังติดตั้ง ไม่บล็อกการเปิดแอป */
-const CACHE = 'nocturne-v4';
-const SHELL = ['./', './index.html', './cards.js', './ink/deck.js', './manifest.json',
+const CACHE = 'nocturne-v5';
+const SHELL = ['./', './index.html', './cards.js', './ink/deck.js', './ink/thai.js', './manifest.json',
   './icons/icon-192.png', './icons/icon-512.png', './icons/apple-touch-icon.png', './icons/favicon-64.png'];
 const KEYS = [];
 for (let i = 0; i < 22; i++) KEYS.push('m' + String(i).padStart(2, '0'));
